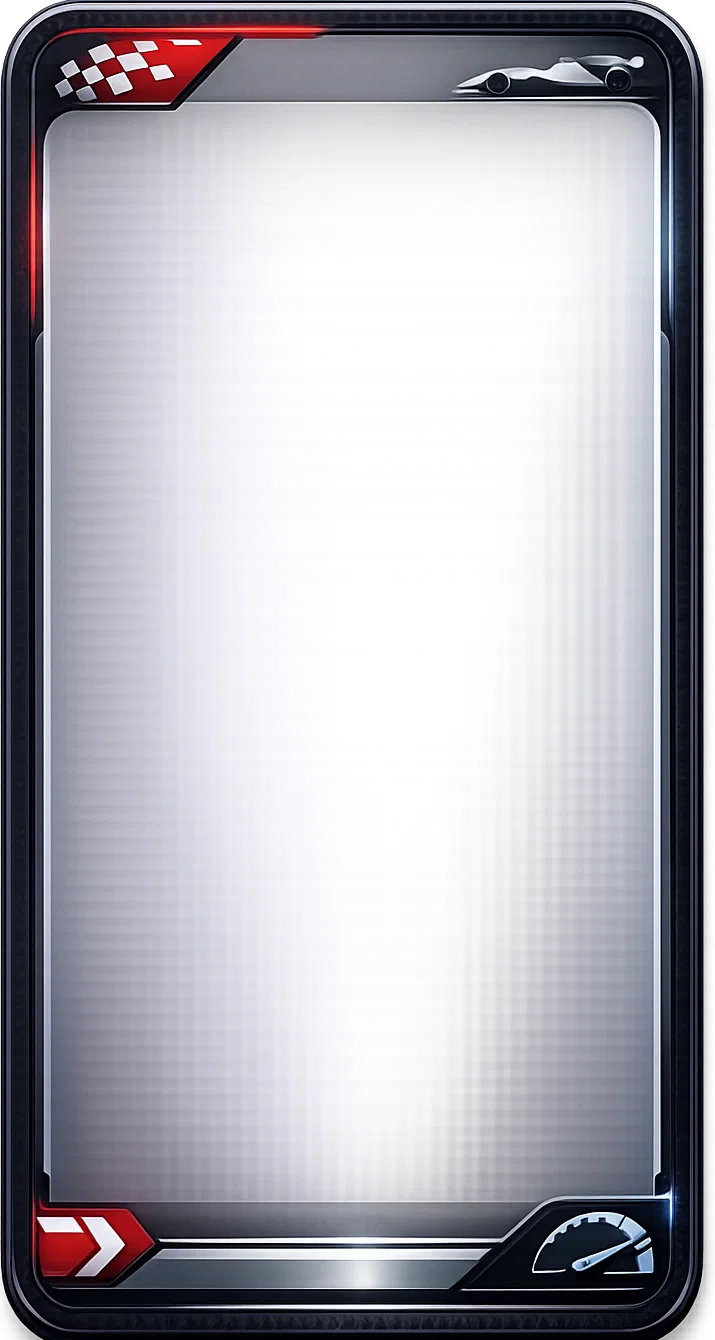
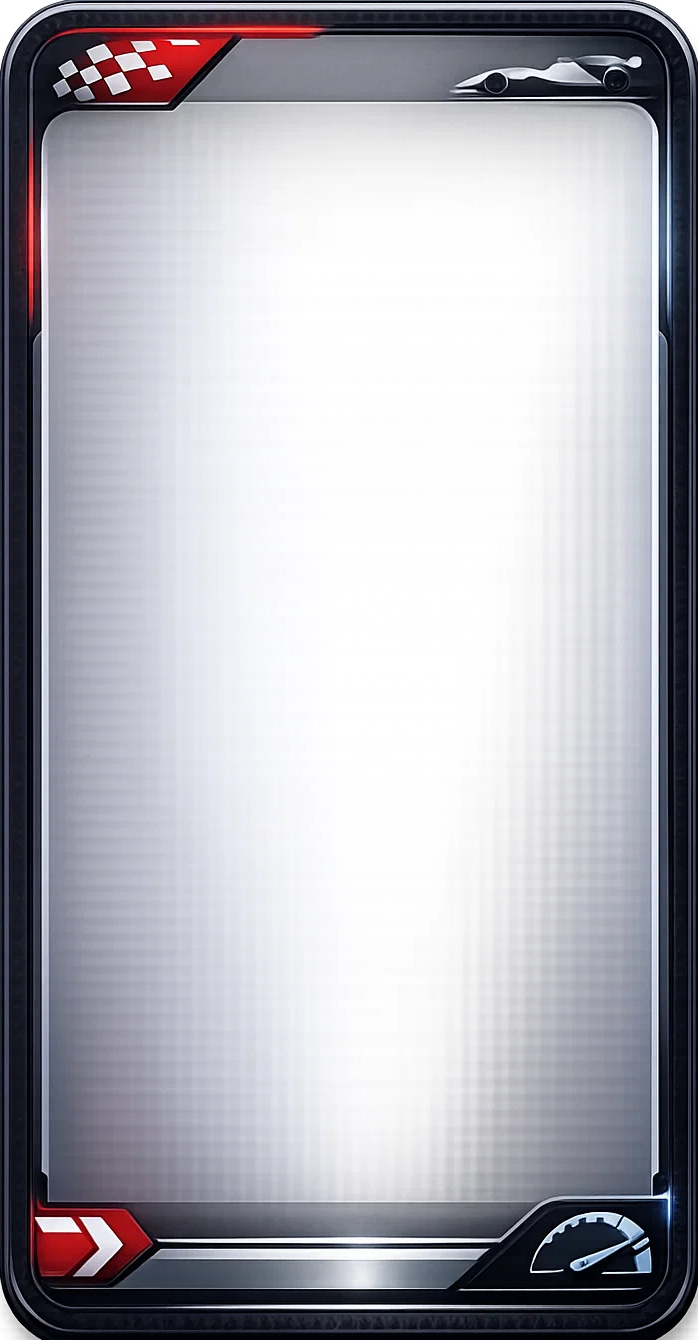
Wenn man ein Rennen abgeschlossen hat wird es beim Rennkalender ausgegraut

diff --git a/project/style.css b/project/style.css
@@ -211,15 +211,6 @@ h1 {
     animation: fadeInRight 1s 0.1s ease forwards;
 }
 
-#error {
-    font-family: F1 text;
-    color: #e10600;
-    font-weight: bold;
-    text-align: center;
-    width: 100%;
-    font-size: larger;
-}
-
 /* ==================================================
                      Career Hub
 ================================================== */
@@ -418,18 +409,6 @@ p {
     border-color: #e10600;
     box-shadow: 0 0 15px rgba(225, 6, 0, 0.5);
     transform: scale(1.05);
-}
-
-.track-card.completed {
-    border-color: #2ecc71;
-    opacity: 0.7;
-}
-
-.track-card.completed::after {
-    content: "✓";
-    color: #2ecc71;
-    display: block;
-    font-weight: bold;
 }
 
 /* ==================================================

diff --git a/project/script.js b/project/script.js
@@ -221,8 +221,16 @@ function updateHub() {
     document.querySelectorAll('.track-card').forEach((card, index) => {
         if (index === displayIndex) {
             card.classList.add('active');
+            card.style.opacity = "1";
+            card.style.filter = "none";
+        } else if (index < currentRaceIndex) {
+            card.classList.remove('active');
+            card.style.opacity = "0.4";
+            card.style.filter = "grayscale(1) brightness(0.7)";
         } else {
             card.classList.remove('active');
+            card.style.opacity = "1";
+            card.style.filter = "none";
         }
     });
 }
